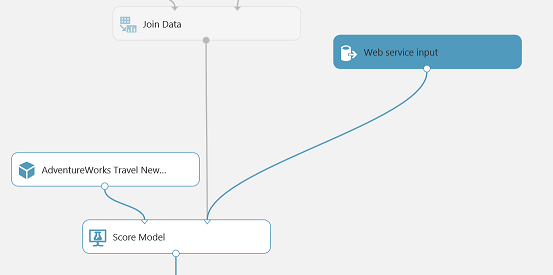
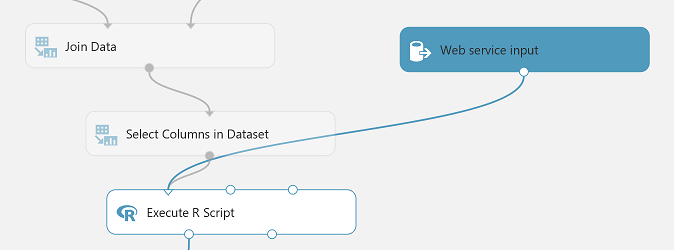
Should be last changes for new ML lab

diff --git a/01 Exercise 1 - Building a Machine Learning Model.md b/01 Exercise 1 - Building a Machine Learning Model.md
@@ -100,7 +100,6 @@ This exercise has 9 tasks:
     1. Remove rows with missing **DepDel15** values.
     1. Create a new column that represents the departure hour. This will be based on the **CRSDepTime** column.
     1. Trim down the list of columns needed to do the analysis at hand.
-    1. Change the data types of a few columns. Specifically, a few of the columns in this dataset need to be represented as **Categorical** to Azure ML.
 
 12. In order to perform the aforementioned data manipulation tasks, you could use built-in Azure ML modules for each task or you could use a script (such as R or Python). Here, you will use R. To do this, add an **Execute R Script** (recall you can search for modules on the left) module beneath the flights dataset and connect the output of the dataset to the first input port (leftmost) of the **Execute R Script**.
 
@@ -123,12 +122,6 @@ This exercise has 9 tasks:
 
     # Trim the columns to only those we will use for the predictive model
     ds.flights = ds.flights[, c("OriginAirportCode", "Month", "DayofMonth", "CRSDepHour", "DayOfWeek", "Carrier", "DestAirportCode", "DepDel15")]
-
-    # cast some of the data types to factor (categorical)
-    ds.flights$DayOfWeek <- as.factor(ds.flights$DayOfWeek)
-    ds.flights$Carrier <- as.factor(ds.flights$Carrier)
-    ds.flights$DestAirportCode <- as.factor(ds.flights$DestAirportCode)
-    ds.flights$OriginAirportCode <- as.factor(ds.flights$OriginAirportCode)
 
     maml.mapOutputPort("ds.flights");
     ```
@@ -246,6 +239,21 @@ This exercise has 9 tasks:
 
     ![Screenshot](images/join_the_flight_and_weather_datasets_3.png)
 
+1. There is one more data manipulation task that needs to be done and once again we will use an R script. Add an **Execute R Script** module below **Join Data** and connect the **Join Data** output to the leftmost input of the **Execute R Script** module.
+1. Replace the default script of the **Execute R Script** module with the following and click the checkmark to save it. This script simply changes the data type of some of the columns so that they are represented as **Categorical** to Azure ML.
+
+    ``` R
+    ds.flights <- maml.mapInputPort(1)
+
+    # cast some of the data types to factor (categorical)
+    ds.flights$DayOfWeek <- as.factor(ds.flights$DayOfWeek)
+    ds.flights$Carrier <- as.factor(ds.flights$Carrier)
+    ds.flights$DestAirportCode <- as.factor(ds.flights$DestAirportCode)
+    ds.flights$OriginAirportCode <- as.factor(ds.flights$OriginAirportCode)
+
+    maml.mapOutputPort("ds.flights");
+    ```
+
 1. Run the experiment to update the metadata.
 1. Save your experiment.
 
@@ -255,7 +263,7 @@ AdventureWorks Travel wants to build a model to predict if a departing flight wi
 
 The typical pattern is split the historical data so a portion is shown to the model for training purposes, and another portion is reserved to test just how well the trained model performs against examples it has not seen before.
 
-1. Drag a **Split Data** module beneath **Join Data** and connect them.
+1. Drag a **Split Data** module beneath **Execute R Script** and connect them.
 
     ![Screenshot](images/train_the_model_0.png)
 
@@ -280,7 +288,7 @@ The typical pattern is split the historical data so a portion is shown to the mo
     ![Screenshot](images/train_the_model_5.png)
 
 1. Run the experiment.
-2. When the experiment is finished running (which may take a minute or two), right click on the output port of the Score Model module and select **Visualize** to see the results of its predictions. You should have a total of 13 columns.
+2. When the experiment is finished running (which may take a minute or two), right click on the output port of the **Score Model** module and select **Visualize** to see the results of its predictions. You should have a total of 13 columns.
 
     ![Screenshot](images/train_the_model_6.png)
 
@@ -308,23 +316,28 @@ The typical pattern is split the historical data so a portion is shown to the mo
 1. A copy of your training experiment is created that contains the trained model wrapped between **Web service input** (the web service action you invoke with parameters) and **Web service output** modules (how the result of scoring the parameters are returned). To fully control the required inputs of the web service and return values, there are some adjustments that need to be made to the newly created predictive experiment (notice the new tab at the top of the experiement).
 
 1. Right click on the line that connects the new **Web service input** module to the **Execute R Script** module and click **Delete**.
-1. Now move the **Web service input** down so it is to the right of the **Join Data** module. Connect the output of the **Web service input** to input of the **Score Model** module.
 
-    ![Screenshot](images/operationalize_the_experiment_5.png)
+1. Now move the **Web service input** down so it is to the right of the **Join Data** module.
 
-1. Right click the line connecting the **Join Data** module and the **Score Model** module and select **Delete**.
+1. Right click the line connecting the **Join Data** module and the **Execute R Script** module and select **Delete**. Move the **Execute R Script** module down a little to give yourself a little more room.
 
     ![Screenshot](images/operationalize_the_experiment_6.png)
 
-1. Between the **Join Data** and the **Score Model** modules, drop a **Select Columns in Dataset** module and connect **Join Data** to this new **Select Columns in Dataset** module. In the **Properties** panel for the **Select Columns in Dataset** module click the **Launch column selector** button. In this dialog, click **ALL COLUMNS** and select **Exclude** (notice this is an exclude operation) from the dropdown box. Then select the columns **DepDel15**, **OriginLatitude**, **OriginLongitude**, **DestLatitude**, and **DestLongitude**. This configuration will update the web service metadata so that these columns do not appear as required input parameters for the web service.
+1. Between the **Join Data** and **Execute R Script** modules, drop a **Select Columns in Dataset** module and connect **Join Data** to this new **Select Columns in Dataset** module.
+
+1. In the **Properties** panel for the **Select Columns in Dataset** module click the **Launch column selector** button. In this dialog, click **ALL COLUMNS** and select **Exclude** (notice this is an exclude operation) from the dropdown box. Then select **DepDel15** in the textbox. This configuration will update the web service metadata so that this column does not appear as a required input parameter for the web service.
 
     ![Screenshot](images/ex01_exclude_columns_for_web_service_input.png)
 
-1. Connect the **Select Columns in Dataset** output to **Score Model**.
+1. Connect the **Select Columns in Dataset** output to the leftmost input of the **Execute R Script** module.
 
     ![Screenshot](images/operationalize_the_experiment_8.png)
 
-1. As we removed the latitude and longitude columns from the dataset to remove them as input to the web service, we have to add them back in before we return the result so that the results can be easily visualized on a map.
+1. Connect the output of the **Web service input** to leftmost input of the **Execute R Script** module that is right below **Select Columns in Dataset**.
+
+    ![Screenshot](images/operationalize_the_experiment_5.png)
+
+1. Because we have removed the latitude and longitude columns from the dataset (so they were not required as an input to the web service), we have to add them back in before we return the result so that the results can be easily visualized on a map.
 
 2. To add these fields back, begin by deleting the line between the **Score Model** and **Web service output**.
 3. Drag the **AirportCodeLocationLookupClean** dataset on to the design surface, positioning it below the Score Model module.
@@ -368,7 +381,7 @@ The typical pattern is split the historical data so a portion is shown to the mo
 
 ## Task 9: Deploy Web Service and Note API Information
 
-1. When the experiment is finished running, click **Deploy Web Service [New]** (not **[Classic]**). This will launch the web service deployment wizard.
+1. When the experiment is finished running, click **Deploy Web Service [New]** (*not* **[Classic]**). This will launch the web service deployment wizard.
 
 1. You can leave the default name, select **Create new...** for **Price Plan** and then provide a **Plan Name** value. Finally, under **Monthly Plan Options** select **Standard DevTest**.
     1. **NOTE:**: If you have already created a DevTest plan, you will not be able to create another one. You can simply select the DevTest plan that was already created from the **Price Plan** dropdown box.
